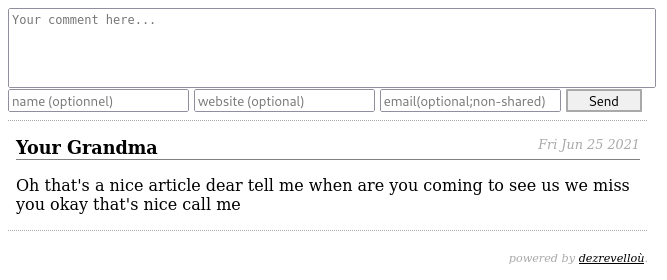
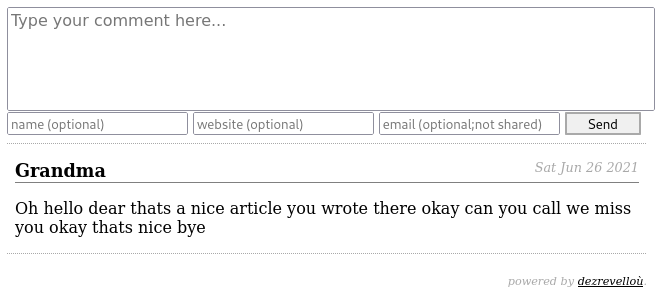
Add translation support

diff --git a/src/dezrevellou.ts b/src/dezrevellou.ts
@@ -55,42 +55,39 @@ class ArticleComment {
     }
 }
 
+class Translation {
+    comment: string
+    name: string
+    website: string
+    email: string
+    send: string
+    noComments: string
+}
+
 class Dezrevellou {
     apiUrl: string;
     slug: string;
     comments: ArticleComment[];
+    translation: Translation;
 
-    createNewCommentForm() {
-        return `<div id="dezrevellou-comment-form">
-<textarea name="dezrevellou-comment" placeholder="Votre commentaire ici..."></textarea>
-<input class="dezrevellou-author" type="text" name="dezrevellou-author-name" placeholder="nom (optionnel)" />
-<input class="dezrevellou-author" type="url" name="dezrevellou-author-website" placeholder="site web (optionnel)" />
-<input class="dezrevellou-author" type="email" name="dezrevellou-author-email" placeholder="email(optionnel;non-partagé)"/>
-<button id="dezrevellou-submit" type="button"
-    onclick="return dezrevellou.postNewComment();">Envoyer</button>
-</div>`;
-    }
-
-    getAndRenderComments() {
-        fetch(this.apiUrl + "/comments/" + this.slug)
-            .then(resp => resp.json())
-            .then(data => data.map(e => new ArticleComment(e)))
-            .then(comments => {
-                this.comments = comments;
-                const comment_list = document.getElementById("dezrevellou-comments-list");
-                comment_list.innerText = '';
-                if (this.comments.length > 0) {
-                    this.comments.forEach(c => comment_list.appendChild(c.createNode()));
-                } else {
-                    comment_list.innerHTML = "<p>Pas de commentaires pour l'instant…</p>"
-                }
-            })
-            .catch(err => console.error(err));
-    }
-
-    constructor(apiUrl: string, slug: string, elementSelector: string) {
+    /**
+     * Launches Dezrevelloù
+     * @param apiUrl the base api url
+     * @param slug an unique identifier for the comments. All comments on this will be attached to this slug
+     * @param elementSelector // HTML id of the Dezrevelloù element
+     * @param translation // a map of translated strings
+     */
+    constructor(apiUrl: string, slug: string, elementSelector: string = "dezrevellou", translation: Translation = {
+        comment: "Type your comment here...",
+        name: "name (optional)",
+        website: "website (optional)",
+        email: "email (optional;not shared)",
+        send: "Send",
+        noComments: "No comments… yet."
+    }) {
         this.apiUrl = apiUrl;
         this.slug = slug;
+        this.translation = translation;
         this.comments = [];
         dezrevellou = this;
         let comment_root = document.getElementById(elementSelector);
@@ -104,6 +101,43 @@ class Dezrevellou {
         comment_root.innerHTML += this.signature();
     }
 
+    /**
+     * Creates the form for comment posting
+     */
+    createNewCommentForm() {
+        return `<div id="dezrevellou-comment-form">
+<textarea name="dezrevellou-comment" placeholder="${this.translation.comment}"></textarea>
+<input class="dezrevellou-author" type="text" name="dezrevellou-author-name" placeholder="${this.translation.name}" />
+<input class="dezrevellou-author" type="url" name="dezrevellou-author-website" placeholder="${this.translation.website}" />
+<input class="dezrevellou-author" type="email" name="dezrevellou-author-email" placeholder="${this.translation.email}"/>
+<button id="dezrevellou-submit" type="button"
+    onclick="return dezrevellou.postNewComment();">${this.translation.send}</button>
+</div>`;
+    }
+
+    /**
+     * Requests the comments from the server and renders them
+     */
+    getAndRenderComments() {
+        fetch(this.apiUrl + "/comments/" + this.slug)
+            .then(resp => resp.json())
+            .then(data => data.map(e => new ArticleComment(e)))
+            .then(comments => {
+                this.comments = comments;
+                const comment_list = document.getElementById("dezrevellou-comments-list");
+                comment_list.innerText = '';
+                if (this.comments.length > 0) {
+                    this.comments.forEach(c => comment_list.appendChild(c.createNode()));
+                } else {
+                    comment_list.innerHTML = `<p>${this.translation.noComments}</p>`
+                }
+            })
+            .catch(err => console.error(err));
+    }
+
+    /**
+     * returns html for a "powered by dezrevellou" section
+     */
     signature() {
         return `<hr/><p id="dezrevellou-signature"><em>powered by <a href="https://github.com/paulollivier/dezrevellou">dezrevelloù</a>.</em></p>`
     }

diff --git a/src/dezrevellou.sass b/src/dezrevellou.sass
@@ -7,6 +7,7 @@
       width: 100%
       height: 6em
       resize: none
+      font-family: sans-serif
     input.dezrevellou-author
       width: 27%
     button

diff --git a/README.md b/README.md
@@ -47,7 +47,20 @@ A simple usage in a "static" webpage would look like the following:
 </body>
 </html>
 ```
-#### specific case: a domain-wide instance
+#### Translation
+
+The `Dezrevellou` object accepts an optional parameter with the following default value:
+```javascript
+translation = {
+    comment: "Type your comment here...",
+    name: "name (optional)",
+    website: "website (optional)",
+    email: "email (optional;not shared)",
+    send: "Send"
+}
+```
+
+#### Specific case: a domain-wide instance
 
 Let's suppose you want to use a single instance of dezrevelloù for all your websites: you would typically install it in 
 its own subdomain.
@@ -69,11 +82,19 @@ server {
         }
         
         root /var/www/my-awesome-blog/html;
-        add_header Access-Control-Allow-Origin https://blog.my.domain/;
+        add_header Access-Control-Allow-Origin https://comments.my.domain/;
         add_header Access-Control-Max-Age 3600;
         add_header Access-Control-Expose-Headers Content-Length;
         add_header Access-Control-Allow-Headers Range;
         # --8<--
+    }
+}
+server {
+    server_name comments.my.domain
+    location / {
+        proxy_set_header Host $host;
+        proxy_set_header X-Real-IP $remote_addr;
+        proxy_pass http://localhost:3000;
     }
 }
 ```
@@ -85,7 +106,7 @@ My personnal recommendation is to use the same domain for both the static websit
 This is done by configuring your favourite webserver to serve different content from different locations.
 
 For instance, `/comments` would pass the request to the api, while the rest of the locations would
-simply return your static website, containing your own `dezrevellou.min.{css,js}`.
+simply return your static website, containing your own copy of `dezrevellou.min.{css,js}`.
 
 You will find below a sample nginx configuration, [used for testing](vhost.nginx)
 in the [docker-compose file](docker-compose.yml):
@@ -118,7 +139,7 @@ server {
 - [ ] notifications
 - [ ] replies
 - [ ] sqlite
-- [ ] translation support
+- [x] translation support
 
 ### nice to have
 
@@ -140,6 +161,7 @@ $ make
 
 This will build everything:
 - the api binary
+- docker image
 - the js & css files, compressed & uncompressed 
 - a demo.html page
 
